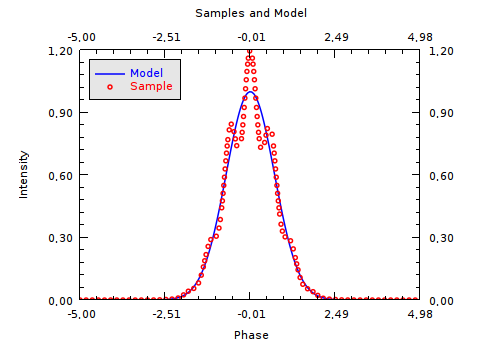
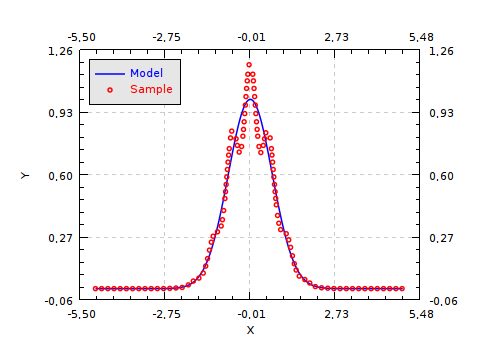
Polished axis, scale and legend

diff --git a/demo.c b/demo.c
@@ -14,10 +14,10 @@ static gboolean on_draw(GtkWidget *widget,
     rect.y = 0.0;
     rect.width = (double) gtk_widget_get_allocated_width(widget);
     rect.height = (double) gtk_widget_get_allocated_height(widget);
-    
+
     slope_scene_t *scene = (slope_scene_t*) data;
     slope_scene_draw(scene, cr, &rect);
-    
+
     return TRUE;
 }
 
@@ -31,48 +31,47 @@ int main(int argc, char *argv[])
         y1[k] = exp(-x[k]*x[k]);
         y2[k] = y1[k] + 0.2*y1[k]*cos(10.0*x[k]);
     }
-    
+
     /* put the data arrays in the data objects */
     slope_data_t *model_data =
-    slope_xydata_create_simple(
-        x, y1, N, "Model",
-        SLOPE_BLUE, SLOPE_LINE);
-    
+        slope_xydata_create_simple(
+            x, y1, N, "Model",
+            SLOPE_BLUE, SLOPE_LINE);
+
     slope_data_t *sample_data =
-    slope_xydata_create_simple(
-        x, y2, N, "Sample",
-        SLOPE_RED, SLOPE_CIRCLES);
-    
+        slope_xydata_create_simple(
+            x, y2, N, "Sample",
+            SLOPE_RED, SLOPE_CIRCLES);
+
     /*
      *create a metrics to place the data in the chart */
     slope_metrics_t *metrics = slope_xymetrics_create();
     slope_metrics_add_data(metrics, model_data);
     slope_metrics_add_data(metrics, sample_data);
-    
+
     /*
      *add the metrics to a scene */
     slope_scene_t *scene = slope_scene_create();
     slope_scene_add_metrics(scene, metrics);
     
     /*
-     *this is how you set axis labels
+     *this is how you set axis labels */
     slope_frame_t *frame = slope_xymetrics_get_frame(metrics);
     slope_xyframe_set_label(frame, SLOPE_XYFRAME_TOP, "Samples and Model");
     slope_xyframe_set_label(frame, SLOPE_XYFRAME_BOTTOM, "Phase");
     slope_xyframe_set_label(frame, SLOPE_XYFRAME_LEFT, "Intensity");
-    */
     
     /*
      * this is how you control axis visibility
-     *    slope_xyframe_set_visible(frame, SLOPE_XYFRAME_TOP, SLOPE_FALSE);
-     *    slope_xyframe_set_visible(frame, SLOPE_XYFRAME_RIGHT, SLOPE_FALSE);
-     */
+    slope_xyframe_set_visible(frame, SLOPE_XYFRAME_TOP, SLOPE_FALSE);
+    slope_xyframe_set_visible(frame, SLOPE_XYFRAME_RIGHT, SLOPE_FALSE);
+    */
     
     /*
      * this is how you control scene and axis colour
-     *    slope_scene_set_back_color_name(scene, SLOPE_BLACK);
-     *    slope_xyframe_set_color_name(frame, SLOPE_WHITE);
-     */
+    slope_scene_set_back_color_name(scene, SLOPE_BLACK);
+    slope_xyframe_set_color_name(frame, SLOPE_WHITE);
+    */
     
     /*
      *put the scene in a gtk widget */
@@ -87,7 +86,7 @@ int main(int argc, char *argv[])
                      G_CALLBACK(on_draw), scene);
     gtk_widget_show_all(window);
     gtk_main();
-    
+
     slope_scene_write_to_png(scene, "figure.png", 500, 350);
     slope_data_destroy(model_data);
     slope_data_destroy(sample_data);
@@ -95,4 +94,3 @@ int main(int argc, char *argv[])
     slope_scene_destroy(scene);
     return 0;
 }
-

diff --git a/slope/xymetrics.c b/slope/xymetrics.c
@@ -37,6 +37,7 @@ slope_metrics_t* slope_xymetrics_create()
     self->x_low_bound = self->x_up_bound = 80.0;
     self->y_low_bound = self->y_up_bound = 50.0;
     self->frame = _slope_xyframe_create(parent);
+    _slope_xymetrics_update(parent);
     return parent;
 }
 
@@ -74,11 +75,14 @@ double slope_xymetrics_map_y (slope_metrics_t *metrics, double y)
 void _slope_xymetrics_update (slope_metrics_t *metrics)
 {
     slope_xymetrics_t *self = (slope_xymetrics_t*) metrics;
+    
     if (metrics->data == NULL) {
         self->xmin = 0.0;
         self->xmax = 1.0;
         self->ymin = 0.0;
         self->ymax = 1.0;
+        self->width = self->xmax - self->xmin;
+        self->height = self->ymax - self->ymin;
         return;
     }
     slope_iterator_t *iter = slope_list_first(metrics->data);
@@ -97,6 +101,15 @@ void _slope_xymetrics_update (slope_metrics_t *metrics)
         if (dat->ymax > self->ymax) self->ymax = dat->ymax;
         slope_iterator_next(&iter);
     }
+    
+    double xbound = (self->xmax - self->xmin) /20.0;
+    self->xmin -= xbound;
+    self->xmax += xbound;
+    
+    double ybound = (self->ymax - self->ymin) /20.0;
+    self->ymin -= ybound;
+    self->ymax += ybound;
+    
     self->width = self->xmax - self->xmin;
     self->height = self->ymax - self->ymin;
 }
@@ -137,6 +150,26 @@ void _slope_xymetrics_draw (slope_metrics_t *metrics, cairo_t *cr,
     legend_pos.x = self->xmin_scene + 10.0;
     legend_pos.y = self->ymin_scene + 10.0;
     _slope_legend_draw(metrics->legend, cr, &legend_pos);
+}
+
+
+void slope_xymetrics_set_x_range (slope_metrics_t *metrics,
+                                  double xi, double xf)
+{
+    slope_xymetrics_t *self = (slope_xymetrics_t*) metrics;
+    self->xmin = xi;
+    self->xmax = xf;
+    self->width = self->xmax - self->xmin;
+}
+
+
+void slope_xymetrics_set_y_range (slope_metrics_t *metrics,
+                                  double yi, double yf)
+{
+    slope_xymetrics_t *self = (slope_xymetrics_t*) metrics;
+    self->ymin = yi;
+    self->ymax = yf;
+    self->height = self->ymax - self->ymin;
 }
 
 /* slope/xymetrics.c */

diff --git a/slope/legend.c b/slope/legend.c
@@ -51,7 +51,7 @@ void _slope_legend_guess_geometry (slope_legend_t *legend,
     legend->nlines = 0;
     double bgst_width = 0.0;
     slope_rect_set(
-        &legend->rect, point->x, point->y, 50.0, 20.0);
+        &legend->rect, point->x, point->y, 50.0, 25.0);
 
     slope_iterator_t *iter =
         slope_list_first(legend->metrics->data);
@@ -85,6 +85,9 @@ void _slope_legend_draw (slope_legend_t *legend,
 
     _slope_legend_guess_geometry(legend,cr,point);
     
+    if (legend->nlines == 0)
+        return;
+    
     /* draw the legend's frame */
     slope_cairo_set_color(cr, &legend->fill_color);
     /*cairo_move_to(cr,legend->rect.x, legend->rect.y);*/
@@ -114,7 +117,7 @@ void _slope_legend_draw (slope_legend_t *legend,
         
         cairo_text_extents_t txt_ext;
         cairo_text_extents(cr, data->name, &txt_ext);
-        thumb_pos.y = legend->rect.y + 5.0 + (order++)*txt_ext.height;
+        thumb_pos.y = legend->rect.y + 5.0 + (order-1)*3.0 + (order++)*txt_ext.height;
         _slope_data_draw_thumb(data, cr, &thumb_pos);
         slope_iterator_next(&iter);
     }

diff --git a/slope/xyframe.c b/slope/xyframe.c
@@ -44,8 +44,8 @@ slope_frame_t* _slope_xyframe_create(slope_metrics_t *metrics)
     parent->_draw_fn = _slope_xyframe_draw;
     slope_xyframe_set_visible(
         parent, SLOPE_XYFRAME_ALL, SLOPE_TRUE);
-    slope_xyframe_set_visible(
-        parent, SLOPE_XYFRAME_GRID, SLOPE_FALSE);
+    /* slope_xyframe_set_visible(
+        parent, SLOPE_XYFRAME_GRID, SLOPE_FALSE); */
     slope_color_set_name(&self->color, SLOPE_BLACK);
     
     return parent;

diff --git a/slope/xymetrics.h b/slope/xymetrics.h
@@ -35,6 +35,10 @@ double slope_xymetrics_map_x (slope_metrics_t *metrics, double x);
 
 double slope_xymetrics_map_y (slope_metrics_t *metrics, double y);
 
+void slope_xymetrics_set_x_range (slope_metrics_t *metrics, double xi, double xf);
+
+void slope_xymetrics_set_y_range (slope_metrics_t *metrics, double yi, double yf);
+
 #ifdef __cplusplus
 }
 #endif
